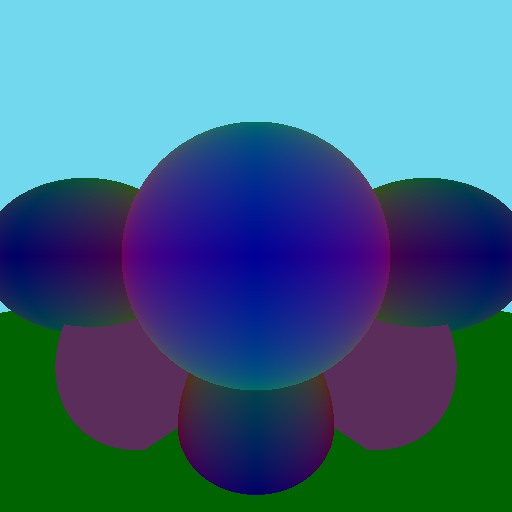
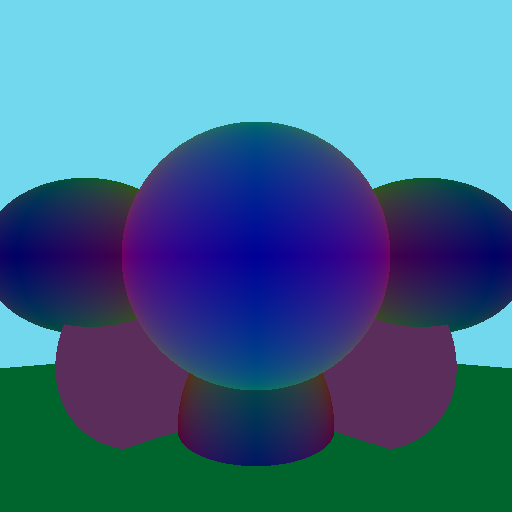
scenes

Changed region(s): [[0.0, 0.5938, 1.0, 1.0]]

diff --git a/src/App.java b/src/App.java
@@ -24,7 +24,7 @@ class App {
         HashSet<Geometry> geometries = new HashSet<>();
         geometries.add(new Sphere(new Point(0, 0, 150), 150));
 
-        geometries.add(new Plane(new Vector(0, 100, 0), new Point(0, -200, 100)));
+        geometries.add(new Plane(new Vector(0, 100, 45), new Point(0, -200, 100)));
 
         geometries.add(new Sphere(new Point( 200, 000, 150), 100));
         geometries.add(new Sphere(new Point(-200, 000, 150), 100));
@@ -35,12 +35,14 @@ class App {
 
         Camera camera = new Camera(new Point(0, 0, -100), new Point(0, 0, 0), 110, size, size);
 
-        makeImage(camera, new DistanceShader(),  geometries);
-        makeImage(camera, new IntersectShader(), geometries);
-        makeImage(camera, new NormalShader(),    geometries);
+        makeImage(new Scene(geometries,camera), new DistanceShader());
+        makeImage(new Scene(geometries,camera), new IntersectShader());
+        makeImage(new Scene(geometries,camera), new NormalShader());
     }
 
-    static void makeImage(Camera camera, Shader shader, Scene scene){
+    static void makeImage(Scene scene, Shader shader){
+        Camera camera = scene.getCamera();
+
         int width = camera.getWidth();
         int height = camera.getHeight();
 
@@ -48,51 +50,10 @@ class App {
         Color def = new Color(113, 216, 237); // default color
         
         for (int x = 0; x < width; x++) for (int y = 0; y < height; y++) {
-            Color color = null;
-            double z = Double.MAX_VALUE;
             Ray ray = camera.generateRay(x, y);
-            
-            color = (scene.traceRay(ray)) ? new Color(1,1,1) : def;
-            // for(Geometry geometry : geometries){
-            //     Color maybeColor = shader.getColor(ray, geometry);
-            //     // Only use the closest color
-            //     if(ray.t() < z){
-            //         color = maybeColor;
-            //         z = ray.t();
-            //     }
-            // }
-            // if(color == null) color = def;
-
+            Color color = (scene.traceRay(ray)) ? shader.getColor(ray, ray.target()) : def;
             image.setRGB(x, height-y-1, color.rgb() );
-        };
-
-        writeImage(image, shader.getName());
-    }
-
-    static void makeImage(Camera camera, Shader shader, HashSet<Geometry> geometries){
-        int width = camera.getWidth();
-        int height = camera.getHeight();
-
-        BufferedImage image = new BufferedImage(width, height, BufferedImage.TYPE_INT_RGB);
-        Color def = new Color(113, 216, 237); // default color
-        
-        for (int x = 0; x < width; x++) for (int y = 0; y < height; y++) {
-            Color color = null;
-            double z = Double.MAX_VALUE;
-            Ray ray = camera.generateRay(x, y);
-            
-            for(Geometry geometry : geometries){
-                Color maybeColor = shader.getColor(ray, geometry);
-                // Only use the closest color
-                if(ray.t() < z){
-                    color = maybeColor;
-                    z = ray.t();
-                }
-            }
-            if(color == null) color = def;
-
-            image.setRGB(x, height-y-1, color.rgb() );
-        };
+        }
 
         writeImage(image, shader.getName());
     }
@@ -113,12 +74,12 @@ class App {
 
     static void writeImage(BufferedImage image, String name){
         File file = new File("./images/"+name+".png");
-        try {
-            ImageIO.write(image, "png", file);   
-        } catch (Exception e) {
-            System.out.println(e.getMessage());
+            try {
+                ImageIO.write(image, "png", file);   
+            } catch (Exception e) {
+                System.out.println(e.getMessage());
+            }
         }
-    }
 
     static void screen(){
         int size = 512;
@@ -129,24 +90,29 @@ class App {
     }
 
     static void scene1(){
-        Camera camera = new Camera(new Point(0, 0, -10), new Point(0, 0, 0), 7.7, 800, 600);
         HashSet<Geometry> geometries = new HashSet<>();
         geometries.add(new Sphere(new Point(0, 0, 0), 0.5));
-        makeImage(camera, new IntersectShader(), geometries);
+        makeImage(new Scene(
+            geometries, 
+            new Camera(new Point(0, 0, -10), new Point(0, 0, 0), 7.7, 800, 600) ), 
+            new IntersectShader());
     }
 
     static void scene2(){
-        Camera camera = new Camera(new Point(0, 0, -10), new Point(1, 1, 0), 11, 600, 600);
         HashSet<Geometry> geometries = new HashSet<>();
         geometries.add(new Sphere(new Point(0, 0, 0), 0.5));
-        makeImage(camera, new IntersectShader(), geometries);
+        makeImage(new Scene(
+            geometries, 
+            new Camera(new Point(0, 0, -10), new Point(1, 1, 0), 11, 600, 600) ), 
+            new IntersectShader());
     }
 
     static void scene3(){
-        Camera camera = new Camera(new Point(10, 10, -10), new Point(0, 0, 0), 3.3, 600, 600);
         HashSet<Geometry> geometries = new HashSet<>();
         geometries.add(new Sphere(new Point(0, 0, 0), 0.5));
-        Scene scene = new Scene(geometries);
-        makeImage(camera, new IntersectShader(), scene);
+        makeImage(new Scene(
+            geometries, 
+            new Camera(new Point(10, 10, -10), new Point(0, 0, 0), 3.3, 600, 600) ), 
+            new IntersectShader());
     }
 }

diff --git a/src/Scene.java b/src/Scene.java
@@ -1,29 +1,35 @@
 import java.util.HashSet;
 
+import geometry.Camera;
 import geometry.Geometry;
 import math.Ray;
-import shader.IntersectShader;
-import shader.Shader;
 
 public class Scene {
     HashSet<Geometry> geometries;
     HashSet<LightSource> lightSources;
     HashSet<Material> materials;
+    Camera camera;
 
-    public Scene(HashSet<Geometry> geometries) {
+    public Scene(HashSet<Geometry> geometries, Camera camera) {
         this.geometries = geometries;
+        this.camera = camera;
     }
 
     public boolean traceRay(Ray ray){
         double z = Double.MAX_VALUE;
+        Geometry g = null;
         for(Geometry geometry : geometries){
-            // TODO generalize shader
-            Shader shader = new IntersectShader();
-            shader.getColor(ray, geometry);
-            z = Math.min(z,ray.t());
+            Ray clone = ray.clone();
+            geometry.intersect(clone);
+            if(clone.t()<z){
+                z = clone.t();
+                g = clone.target();
+            }
         }
-        return z!= Double.MAX_VALUE;
+        ray.hit(g,z);
+        return z != Double.MAX_VALUE;
     }
 
     public HashSet<Geometry> getGeometries() { return geometries; }
+    public Camera getCamera() { return camera; }
 }

diff --git a/src/math/Ray.java b/src/math/Ray.java
@@ -1,10 +1,12 @@
 package math;
 
+import geometry.Geometry;
+
 public class Ray{
     Point origin;
     Vector dir;
     double t = Double.MAX_VALUE;
-    Object target;
+    Geometry target;
     public Ray(Point origin, Vector dir) {
         this.origin = origin;
         this.dir = dir;
@@ -13,22 +15,26 @@ public class Ray{
     public Vector dir() { return dir; }
     public Point origin() { return origin; }
     public double t() { return t; }
+    public Geometry target() { return target; }
 
     public Point hitPoint(){
-        Vector v = dir.mul(t);
-        return origin.add(v);
+        return origin.add(dir.mul(t));
     }
 
-    public void hit(Object target){
+    public void hit(Geometry target){
         this.target = target;
     }
     public void hit(double t){
         this.t = t;
     }
-    public void hit(Object target, double t){
+    public void hit(Geometry target, double t){
         this.target = target;
         this.t = t;
     }
 
     public double len(){ return dir.mag(); }
+
+    public Ray clone(){
+        return new Ray(origin,dir);
+    }
 }

diff --git a/src/geometry/Camera.java b/src/geometry/Camera.java
@@ -10,8 +10,6 @@ public class Camera {
     int width;
     int height;
 
-    double aspectRatio;
-    double halfHeight;
     double pixelSize;
 
     Vector vpn;
@@ -26,8 +24,8 @@ public class Camera {
         this.width = width;
         this.height = height;
 
-        this.aspectRatio = width/height;
-        this.halfHeight = Math.tan(fov/2);
+        double aspectRatio = width/height;
+        double halfHeight = Math.tan(fov/2);
         this.pixelSize = (aspectRatio > 0 ? halfHeight : halfHeight/aspectRatio) * 2/height ;
 
         this.vpn = lookAt.sub(pos).norm();
@@ -50,7 +48,6 @@ public class Camera {
     }
 
     public int getWidth() {return width;}
-
     public int getHeight() {return height;}
     
 }

diff --git a/src/shader/DistanceShader.java b/src/shader/DistanceShader.java
@@ -9,8 +9,7 @@ public class DistanceShader implements Shader{
     @Override
     public Color getColor(Ray ray, Geometry geometry) {
         if(geometry.intersect(ray)){
-            double dis = ray.dir().mul(ray.t()).mag();
-            dis = ray.t();
+            double dis = ray.origin().sub(ray.hitPoint()).mag();
             return new Color(dis,dis,dis);
         }
         return null;
